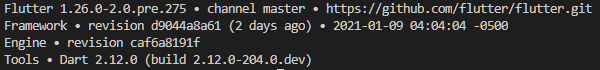
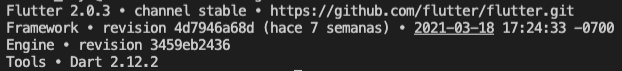
Readme updated

diff --git a/README.md b/README.md
@@ -1,6 +1,6 @@
-# go_social
+# Go!
 
-Look for your favorite songs and sing it!
+Create an activity and get together with your friends!
 
 ## Getting Started
 
@@ -16,7 +16,7 @@ This project is a normal flutter project, so, before running make sure you have 
 Then:
 
 1. Clone this repository
-2. Upgrade your flutter SDK to the latest version in channel master. Today:
+2. This project is using the stable channel of the Flutter SDK, today:
 
 ![version](./assets/images/readme/flutter_version.png)
 
@@ -29,10 +29,17 @@ flutter pub get
 flutter run
 ```
 
-![song_not_found](./assets/images/readme/song_not_found.png)
-![after_successful_search](./assets/images/readme/after_successful_search.png)
-![version](./assets/images/readme/history.png)
+## Test
+This project have a few tests. You can run the tests with:
+```
+flutter test
+```
 
+Also, you can generate a file to evaluate the test coverage. 
+```
+flutter test --coverage
+```
+The above command will generate the coverage/lcov.info file, which can be used to generate a visual report.
 
 
 For help getting started with Flutter, view our
